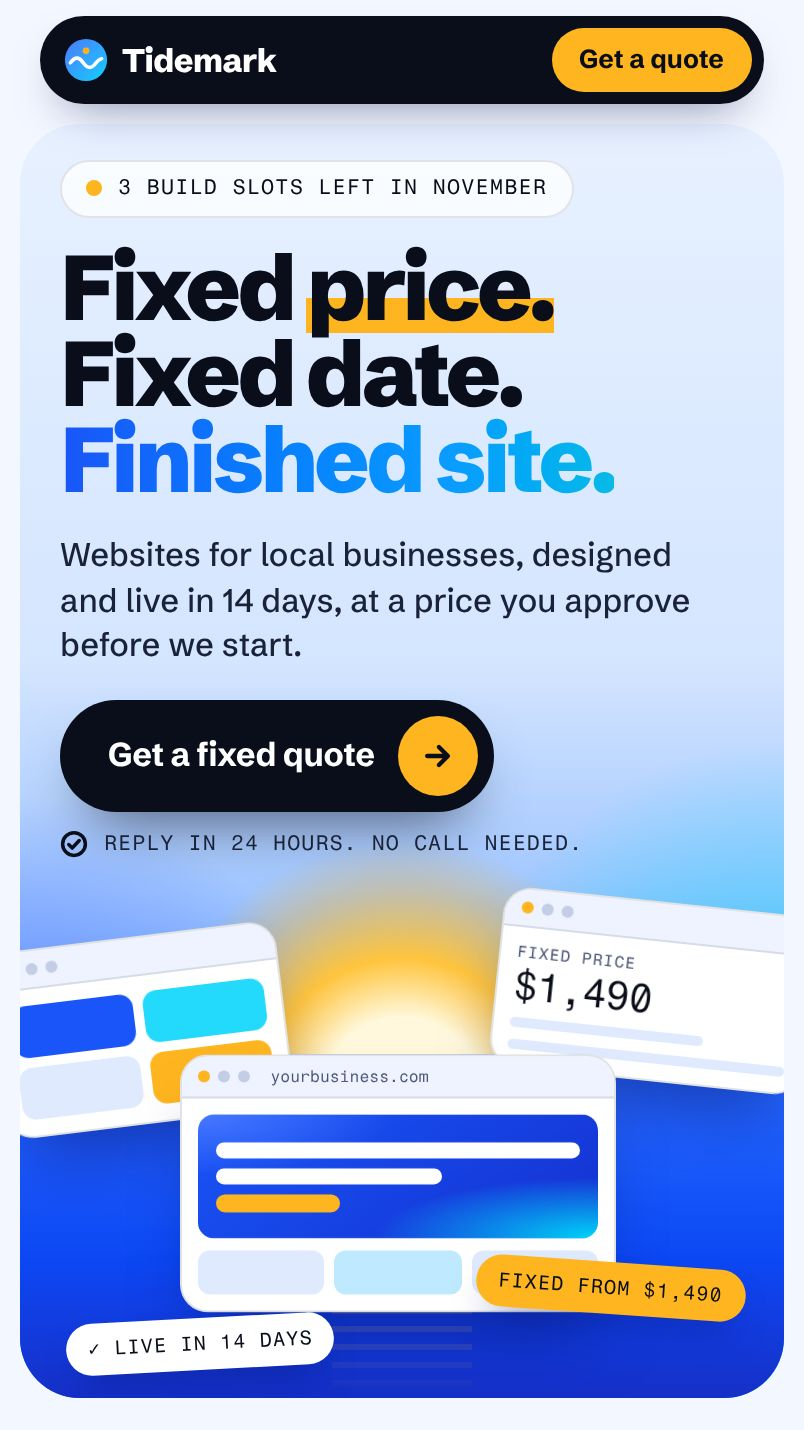
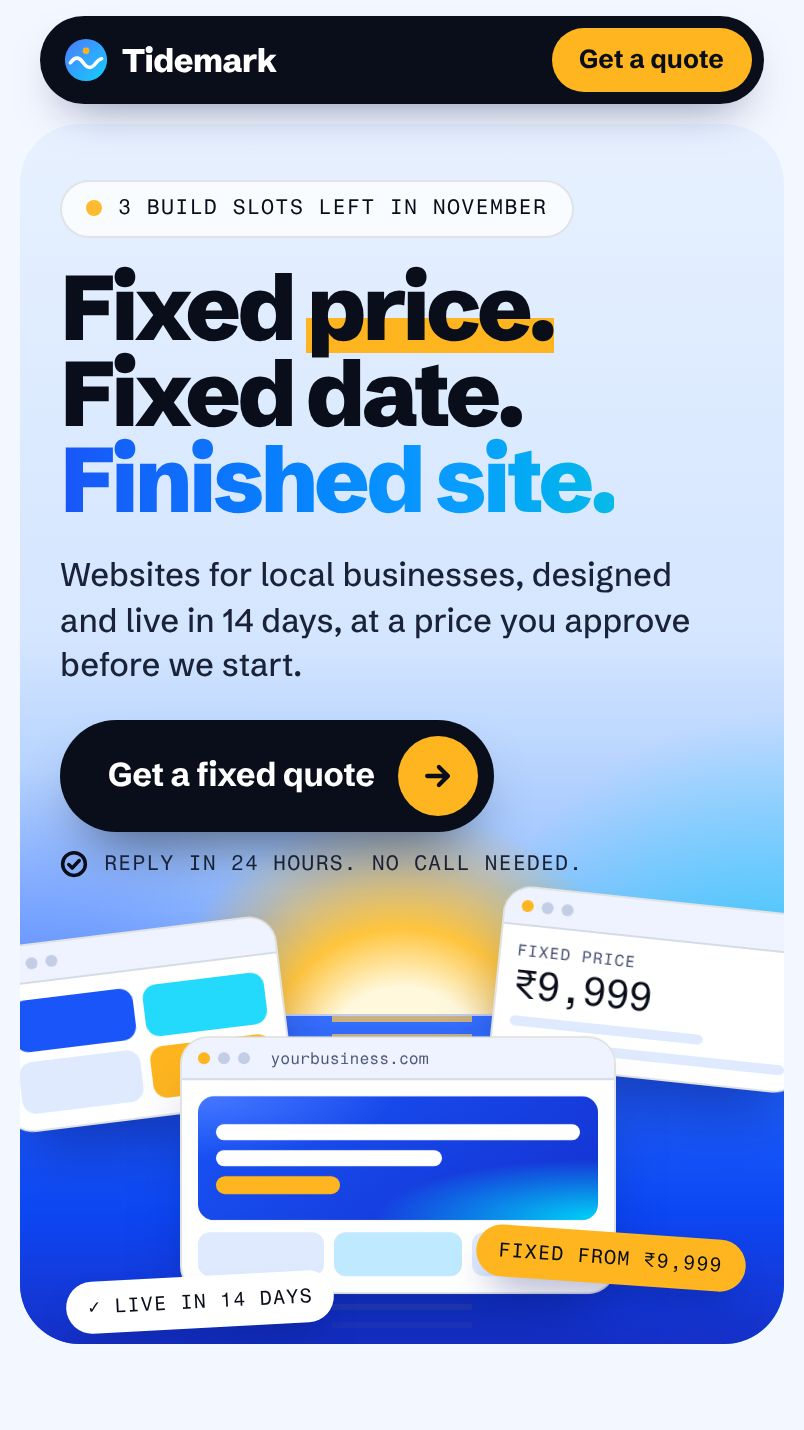
feat: India market profile (₹, honest claims), Tidemark localised, caption+keywords replaces caption+hashtags as the main copy
Claude-Session: https://claude.ai/code/session_01SjSLnGNT2C2ge5YG5LcD4K

Changed region(s): [[0.0, 0.1231, 0.995, 0.9846], [0.9017, 0.7385, 0.9328, 0.7692], [0.8396, 0.7385, 0.8706, 0.7692]]

diff --git a/templates/kit/index.html b/templates/kit/index.html
@@ -91,7 +91,7 @@
   <div class="top"><a class="pill" href="/">← All templates</a><div class="grp"><button class="pill rec" type="button" id="rec" hidden><svg viewBox="0 0 24 24" fill="currentColor" aria-hidden="true"><path d="M8 5.5v13a1 1 0 0 0 1.5.86l10.5-6.5a1 1 0 0 0 0-1.72L9.5 4.64A1 1 0 0 0 8 5.5z"/></svg>Play</button><button class="pill ico" type="button" id="gear" aria-label="Reel settings"><svg viewBox="0 0 24 24" fill="none" stroke="currentColor" stroke-width="2" stroke-linecap="round" stroke-linejoin="round" aria-hidden="true"><circle cx="12" cy="12" r="3"/><path d="M19.4 15a1.7 1.7 0 0 0 .3 1.8l.1.1a2 2 0 1 1-2.8 2.8l-.1-.1a1.7 1.7 0 0 0-1.8-.3 1.7 1.7 0 0 0-1 1.5V21a2 2 0 1 1-4 0v-.1a1.7 1.7 0 0 0-1.1-1.5 1.7 1.7 0 0 0-1.8.3l-.1.1a2 2 0 1 1-2.8-2.8l.1-.1a1.7 1.7 0 0 0 .3-1.8 1.7 1.7 0 0 0-1.5-1H3a2 2 0 1 1 0-4h.1a1.7 1.7 0 0 0 1.5-1.1 1.7 1.7 0 0 0-.3-1.8l-.1-.1a2 2 0 1 1 2.8-2.8l.1.1a1.7 1.7 0 0 0 1.8.3H9a1.7 1.7 0 0 0 1-1.5V3a2 2 0 1 1 4 0v.1a1.7 1.7 0 0 0 1 1.5 1.7 1.7 0 0 0 1.8-.3l.1-.1a2 2 0 1 1 2.8 2.8l-.1.1a1.7 1.7 0 0 0-.3 1.8V9a1.7 1.7 0 0 0 1.5 1H21a2 2 0 1 1 0 4h-.1a1.7 1.7 0 0 0-1.5 1z"/></svg></button></div></div>
   <main id="app"><p class="empty">Loading kit…</p></main>
 </div>
-<div class="bar" id="bar" hidden><div class="in"><button class="main" type="button" id="copyAll">Copy caption + hashtags</button></div></div>
+<div class="bar" id="bar" hidden><div class="in"><button class="main" type="button" id="copyAll">Copy caption + keywords</button></div></div>
 <div class="toast" id="toast" role="status" aria-live="polite"></div>
 
 <script src="/play/player.js"></script>
@@ -170,7 +170,7 @@
     document.title = 'Post kit · ' + k.name;
     var rec = document.getElementById('rec'); rec.hidden = false; rec.onclick = function () { if (window.Reel) window.Reel.start(k.id); };
     document.getElementById('gear').onclick = function () { if (window.Reel) window.Reel.openSettings(); };
-    var allCaption = k.caption + '\n\n' + k.hashtags.join(' ');
+    var kwLine = k.keywords.slice(0, 6).join(' · '), allCaption = k.caption + '\n\n' + kwLine; // keywords instead of hashtags: Instagram search reads the caption, and hashtags matter much less now
 
     var s = el('div', 'slate'); s.appendChild(el('div', 'stripes')); var sb = el('div', 'body');
     sb.appendChild(el('small', null, 'Post kit · Instagram Reel'));
@@ -183,9 +183,9 @@
 
     var c = card('Hook · first 2 seconds', k.hook, 'Hook copied'); c.appendChild(el('p', 'hook serif', k.hook)); app.appendChild(c);
 
-    c = card('Caption', allCaption, 'Caption + hashtags copied'); c.appendChild(el('p', 'caption', k.caption));
-    c.appendChild(el('p', 'sub', 'Hashtags · exactly 5')); c.appendChild(chips(k.hashtags, 'tag', 'Hashtag copied'));
-    c.appendChild(el('p', 'hint', 'The Copy button copies the caption and all 5 hashtags together. Tap a chip to copy a single tag.')); app.appendChild(c);
+    c = card('Caption + keywords', allCaption, 'Caption + keywords copied'); c.appendChild(el('p', 'caption', k.caption)); c.appendChild(el('p', 'caption', kwLine));
+    c.appendChild(el('p', 'hint', 'The Copy button copies the caption and the keyword line together: Instagram search reads your caption. Hashtags are optional now; they are below if you want one or two.'));
+    c.appendChild(el('p', 'sub', 'Optional hashtags · tap one to copy')); c.appendChild(chips(k.hashtags, 'tag', 'Hashtag copied')); app.appendChild(c);
 
     c = card('More hashtags to rotate', k.alternates.join(' '), 'Alternates copied'); c.appendChild(chips(k.alternates, 'tag alt', 'Hashtag copied'));
     c.appendChild(el('p', 'hint', 'Instagram allows 5 per post. Swap these in on other posts; don’t add them all at once.')); app.appendChild(c);
@@ -218,7 +218,7 @@
     }
 
     var bar = document.getElementById('bar'), btn = document.getElementById('copyAll'); bar.hidden = false;
-    btn.onclick = function () { copy(allCaption, btn, 'Caption + hashtags copied'); };
+    btn.onclick = function () { copy(allCaption, btn, 'Caption + keywords copied'); };
   }
 
   var id = new URLSearchParams(location.search).get('id') || '';

diff --git a/templates/2026-10-11-0939/index.html b/templates/2026-10-11-0939/index.html
@@ -409,10 +409,10 @@
     </div>
     <div class="scene" aria-hidden="true">
       <div class="win w2"><div class="frame"><div class="tb"><i></i><i></i><i></i></div><div class="pg"><div class="bt4"><i></i><i></i><i></i><i></i></div></div></div></div>
-      <div class="win w3"><div class="frame"><div class="tb"><i></i><i></i><i></i></div><div class="pg"><div class="pr"><small>Fixed price</small>$1,490</div><div class="ln"></div><div class="ln"></div></div></div></div>
+      <div class="win w3"><div class="frame"><div class="tb"><i></i><i></i><i></i></div><div class="pg"><div class="pr"><small>Fixed price</small>₹9,999</div><div class="ln"></div><div class="ln"></div></div></div></div>
       <div class="win w1"><div class="frame"><div class="tb"><i></i><i></i><i></i><span>yourbusiness.com</span></div><div class="pg"><div class="hero-m"><b></b><b></b><em></em></div><div class="tiles"><i></i><i></i><i></i></div></div></div></div>
       <span class="tagc a">&#10003; Live in 14 days</span>
-      <span class="tagc b">Fixed from $1,490</span>
+      <span class="tagc b">Fixed from ₹9,999</span>
     </div>
   </section>
 
@@ -518,7 +518,7 @@
         <article class="card pkg feat rv" data-reel-stop>
           <span class="badge">Most chosen</span>
           <h3>Growth</h3>
-          <div class="price">$3,400<small>Fixed, one payment plan</small></div>
+          <div class="price">₹19,999<small>Fixed, one payment plan</small></div>
           <p>For businesses ready to win more enquiries.</p>
           <ul>
             <li><svg viewBox="0 0 16 16" fill="none" stroke="#ffb21a" stroke-width="2.2" stroke-linecap="round" stroke-linejoin="round" aria-hidden="true"><path d="M3 8.5l3.2 3.2L13 4.8"/></svg>10 custom pages</li>
@@ -530,7 +530,7 @@
         </article>
         <article class="card pkg rv" data-reel-stop>
           <h3>Launch</h3>
-          <div class="price">$1,490<small>Fixed</small></div>
+          <div class="price">₹9,999<small>Fixed</small></div>
           <p>A sharp site, live in 10 days.</p>
           <ul>
             <li><svg viewBox="0 0 16 16" fill="none" stroke="#1c4dff" stroke-width="2.2" stroke-linecap="round" stroke-linejoin="round" aria-hidden="true"><path d="M3 8.5l3.2 3.2L13 4.8"/></svg>5 pages</li>
@@ -541,7 +541,7 @@
         </article>
         <article class="card pkg rv" data-reel-stop>
           <h3>Scale</h3>
-          <div class="price">$6,900<small>Fixed</small></div>
+          <div class="price">₹34,999<small>Fixed</small></div>
           <p>Custom build for growth.</p>
           <ul>
             <li><svg viewBox="0 0 16 16" fill="none" stroke="#1c4dff" stroke-width="2.2" stroke-linecap="round" stroke-linejoin="round" aria-hidden="true"><path d="M3 8.5l3.2 3.2L13 4.8"/></svg>Shop or portal</li>
@@ -590,7 +590,7 @@
       <h2 id="h-q">Your fixed price is <em>24 hours</em> away.</h2></div>
       <div class="ticket" id="ticket" data-reel-stop>
         <div class="row"><span>Quote TM-0142</span><span>Growth package</span></div>
-        <div class="amt">$<span data-to="3400" data-fmt="1">3,400</span><small>fixed</small></div>
+        <div class="amt">₹<span data-to="19999" data-fmt="1">19,999</span><small>fixed</small></div>
         <hr>
         <div class="row k"><span>Live in 14 days</span><span>2 edit rounds</span></div>
         <span class="stamp" aria-hidden="true">Locked</span>
@@ -611,7 +611,7 @@
 <script>
 (function(){
   var reduce=window.matchMedia&&matchMedia('(prefers-reduced-motion: reduce)').matches;
-  function fmt(v,el){var d=(el.dataset.to||'').indexOf('.')>-1?1:0;var s=v.toFixed(d);return el.dataset.fmt?Math.round(v).toLocaleString('en-US'):s;}
+  function fmt(v,el){var d=(el.dataset.to||'').indexOf('.')>-1?1:0;var s=v.toFixed(d);return el.dataset.fmt?Math.round(v).toLocaleString('en-IN'):s;}
   function count(el,delay){
     var to=parseFloat(el.dataset.to),t0=null;
     if(reduce){el.textContent=fmt(to,el);return;}

diff --git a/design/market.md b/design/market.md
@@ -1,0 +1,38 @@
+# Market profile (read before every template and every hook)
+
+**Market:** India first. **Seller:** a brand-new web studio (Aquarii), one to a few people, no case-study portfolio yet. Content must speak from that real position:
+what the studio can honestly quote, build and deliver today. Update this file whenever the owner gives real numbers; everything marked PLACEHOLDER is a proposal,
+not a fact, until the owner confirms it.
+
+## Money
+- Always ₹ with Indian digit grouping (₹9,999 · ₹1,25,000). Never $ or US$ in a template, a hook or a caption.
+- PLACEHOLDER starting prices (confirm or replace with the owner's real rates):
+  - Landing page (1 page): ₹9,999, live in about 7 days
+  - Business website (up to 5 pages): ₹19,999, about 10-14 days
+  - Store or booking site: ₹34,999, about 14-21 days
+  Two rounds of changes included. Prices are "from" prices; say so.
+- A price shown in a template is the studio's real offer (even though the brand in the template is fictional), so use the numbers above and nothing bigger.
+
+## What may be claimed
+- Allowed: what is delivered, how fast, for how much, what is included, how the process works, clear before/after of a design.
+- Not allowed: invented results or statistics ("+212% leads", "3.1x return", "₹2.4 lakh a month recovered", uptime percentages, client counts, testimonials with
+  numbers). The studio has no client results yet; fake numbers cost trust and may breach advertising rules for misleading claims.
+- If a result is shown to demonstrate a layout, it must be obviously an example label ("example") and never the hook.
+
+## Concepts that fit a beginner studio in India
+Cafés and restaurants, clinics and dentists, coaching and tuition centres, salons and boutiques, gyms, D2C and Instagram sellers, wedding and event services, real
+estate agents, photographers, small agencies. Local touches that signal "made for you": WhatsApp button, UPI / payment link, GST invoice, Google Maps pin, Hindi/English
+mix in short labels, festival and season moments. Keep every name fictional and the copy original.
+
+## Concepts to avoid until the owner says the studio really offers them
+Analytics consultancy, API or developer-platform work, AI automation, enterprise SaaS, launch-film production, brand-strategy retainers.
+
+## Hooks for this market
+Questions an Indian small-business owner actually asks: "Website banwane ka kharcha kitna hota hai?" style curiosity in plain English works too: "What does a website cost in
+₹?", "Can my café get orders without Swiggy?", "Is your Instagram page enough?", "How fast can my website go live?". Keep to 8 words, answer inside 18 seconds,
+and let the answer be a real number or a real step the studio can stand behind.
+
+## Open questions for the owner (the advisor asks, you answer once)
+1. Your real starting prices and delivery times per service.
+2. Which services you can really deliver today, and which you cannot yet.
+3. A contact method for the link-in-bio page (WhatsApp number, email, or booking link).

diff --git a/CLAUDE.md b/CLAUDE.md
@@ -136,7 +136,10 @@ never deployed). It is the ready-to-paste kit for the Instagram Reel:
 **Growth rules (owner-delegated, evidence-driven):** the account exists to attract clients for Aquarii Technologies, so every concept and hook speaks to the buyer
 (a business owner or founder: money, time, results, "what should it cost / where am I losing / can it do X"), not only to designers. The reel starts moving at
 frame 0 (no static title card), shows the hook on screen, runs ~18 s and pays off in its last 4 s. What is being tested, what the numbers said and what to try
-next live in design/experiments.md; the operating rhythm and the do/don't list live in design/growth-playbook.md. Before making a new template, read the latest
+next live in design/experiments.md; the operating rhythm and the do/don't list live in design/growth-playbook.md.
+**Market (design/market.md):** India first and a brand-new studio: prices in ₹ with Indian grouping (never $), price points a one-person studio can really quote, concepts
+for Indian small businesses (cafés, clinics, coaching centres, salons, D2C sellers, wedding/event services), and NO invented results or numbers the studio could not
+back up (no "+212% leads", no "$31.9k/month"): show what is delivered, how fast and for how much. Before making a new template, read the latest
 "Instagram collect" workflow log (per-reel table) and favour what the numbers show is working.
 - `## Hook` — one line (≤ 8 words, a question or a surprising contrast) shown ON SCREEN by the renderer for the first ~3 seconds, so it must read at a glance. It must open a loop the end of the video
   closes: a question ("Can a website feel like tea? Watch to the end"), a "Wait for …" promise, or a surprising contrast.
@@ -148,6 +151,8 @@ next live in design/experiments.md; the operating rhythm and the do/don't list l
 - `## Hashtags` — EXACTLY 5, each starting with # (Instagram's per-post limit
   since Dec 2025): 2 broad, 2 niche, 1 topic-specific; then an `Alternates:` line
   with 5 more to rotate between posts (never all together)
+  Hashtags are SECONDARY now (owner decision): the text pasted into Instagram is the caption plus one keyword line (the first 6 `## Keywords` joined with ` · `),
+  hashtags stay in the kit as an optional extra. Write the first 6 keywords in order of search value.
 - `## Reel` — lines `Length:` (15–20 s: scripts/render-reel.mjs renders reels at ~18 s; shorter = higher completion for cold viewers),
   `Shot plan:` (2–4 beats of what the ▶ player will show: it only scrolls and plays animations, it never taps),
   `Payoff:` (the moment near the end that answers the hook and rewards finishing, e.g. a signature animation completing or

diff --git a/design/growth-playbook.md b/design/growth-playbook.md
@@ -5,6 +5,7 @@ Update this file whenever an experiment (design/experiments.md) settles somethin
 
 ## Goal and audience
 The account is a shop window for Aquarii Technologies (web design and build). Success = enquiries from business owners and founders, with followers as the means.
+The market is India and the studio is brand new: see design/market.md (₹ prices a beginner can really quote, no invented results, concepts for Indian small businesses).
 So each reel is written for the **buyer**: a small-business owner or founder asking a money / time / results question ("What should a website cost?",
 "Where is your website losing money?"). Designers and developers are a bonus audience, not the target.
 
@@ -18,8 +19,8 @@ So each reel is written for the **buyer**: a small-business owner or founder ask
 1. Moves from frame 0. No static title card, no logo intro.
 2. Hook on screen in the first 3 s: a question of at most 8 words that the ending answers. Never promise what the video does not show.
 3. About 18 s. Payoff (the answer) in the last 4 s. Cut anything that does not serve the hook.
-4. Caption: first line = what it is, in the words a buyer would search; last line asks for a send ("Send this to a founder who...").
-5. Exactly 5 hashtags (2 broad, 2 niche, 1 topic), rotate the alternates. Cover = the cover card image, set in Instagram, not part of the video.
+4. Caption: first line = what it is, in the words a buyer would search; last line asks for a send ("Send this to a founder who..."); then one keyword line (the pasted text is caption + keywords).
+5. Hashtags are optional now (at most 1-2); keywords in the caption do the searching. Cover = the cover card image, set in Instagram, not part of the video.
 6. One idea per reel, one next step (the CTA the template ends on).
 
 ## Operating rhythm

diff --git a/.claude/commands/daily-template.md b/.claude/commands/daily-template.md
@@ -83,7 +83,7 @@ Create social/ID.md following the "Instagram social kit" section of CLAUDE.md
 8–12 keywords, exactly 5 hashtags + alternates, Reel plan with length/shot plan/payoff/cover text, music suggestion matched to the template's mood). Base keywords on what the page actually shows.
 Reel format B is the current experiment (design/experiments.md): the reel is rendered automatically at about 18 s with the kit's hook shown on screen for the first
 ~3 s, so write `Length: 15–20 s`, make the hook SHORT (a question of at most 8 words, it is read on screen), and plan the shot plan and payoff to land inside 18 s
-(payoff in the last 4 s). Read the latest results table in the "Instagram collect" workflow log, `design/experiments.md` and `design/growth-playbook.md` first, and favour what the numbers say is working. Concept and hook speak to the buyer (a business owner or founder: money, time, results), not only to designers.
+(payoff in the last 4 s). Read the latest results table in the "Instagram collect" workflow log, `design/experiments.md` and `design/growth-playbook.md` first, and favour what the numbers say is working. Concept and hook speak to the buyer (a business owner or founder: money, time, results), not only to designers. Read `design/market.md` too and follow it strictly: India first, prices in ₹ at the placeholder tiers (never $), concepts that a brand-new studio can honestly sell to Indian small businesses, no invented results or numbers in the page, hook or kit.
 
 ## Phase 5 — Records and push
 1. Append the entry to design-log.json (schema in CLAUDE.md: id=ID, date=DATE,

diff --git a/design/experiments.md b/design/experiments.md
@@ -12,7 +12,7 @@ Read on 2026-10-12: 205 views, 181 reach (sum), 0 shares, 1 save, 3 likes, 0 com
 **Hypothesis:** people leave during the static first ~2 s and a 30 s scroll is too long for strangers. A video that moves from frame 0, shows the question as
 on-screen text for ~3 s, and runs ~18 s will be watched longer and sent more.
 **Change:** renderer `--format B` (default): no cover card in the video (the card is a separate image used as the Instagram cover), hook line on screen, 18 s.
-**First three reels in format B:** Tidemark (2026-10-11-0939), Popcraft (2026-10-11-0937), Vantaris (2026-10-11-0934): three "money / results" questions for business owners.
+**First three reels in format B:** the first three posted from 2026-10-13: Tidemark (2026-10-11-0939, localised to ₹) and the next two daily templates, which are made to design/market.md (India, ₹, no invented results). Popcraft and Vantaris were dropped from the queue on 2026-10-13: US-sized prices and made-up results do not fit an Indian beginner studio.
 **Measure (per reel, after ~48 h):** average watch time (baseline 2.5-4.6 s), reach (baseline ~20-100), shares and saves (baseline ~0).
 **Verdict rule:** keep format B if average watch is clearly above baseline on at least 2 of 3 reels. If not, test the next variable (E2: a different hook style, or a
 shorter 12 s cut). If watch time rises but shares stay at 0, the problem is the idea, not the format (E3: the "send this to someone who..." content angle).

diff --git a/social/2026-10-11-0939.md b/social/2026-10-11-0939.md
@@ -29,7 +29,7 @@ Alternates: #cssanimation #bentogrid #smallbusiness #agencylife #frontend
 ## Reel
 - Length: 24–30 s, vertical 9:16 screen recording from the ▶ player
 - Shot plan: (1) the sunrise rises behind the headline "Fixed price. Fixed date. Finished site." while browser windows drift (0–6 s) → (2) the Design / Build / Care bento cards assemble (6–12 s) → (3) a dated website is wiped away by a clean new one (12–18 s) → (4) three fixed-price packages, then the testimonial wall (18–24 s) → (5) the quote ticket counts up and is stamped LOCKED as the sun rises (24–30 s)
-- Payoff: the quote ticket counts up to $3,400 and a LOCKED stamp lands, answering the hook about what a website costs, with the "Get a fixed quote" button beneath
+- Payoff: the quote ticket counts up to ₹19,999 and a LOCKED stamp lands, answering the hook about what a website costs, with the "Get a fixed quote" button beneath
 - Cover: "What should a website cost?"
 
 ## Music
